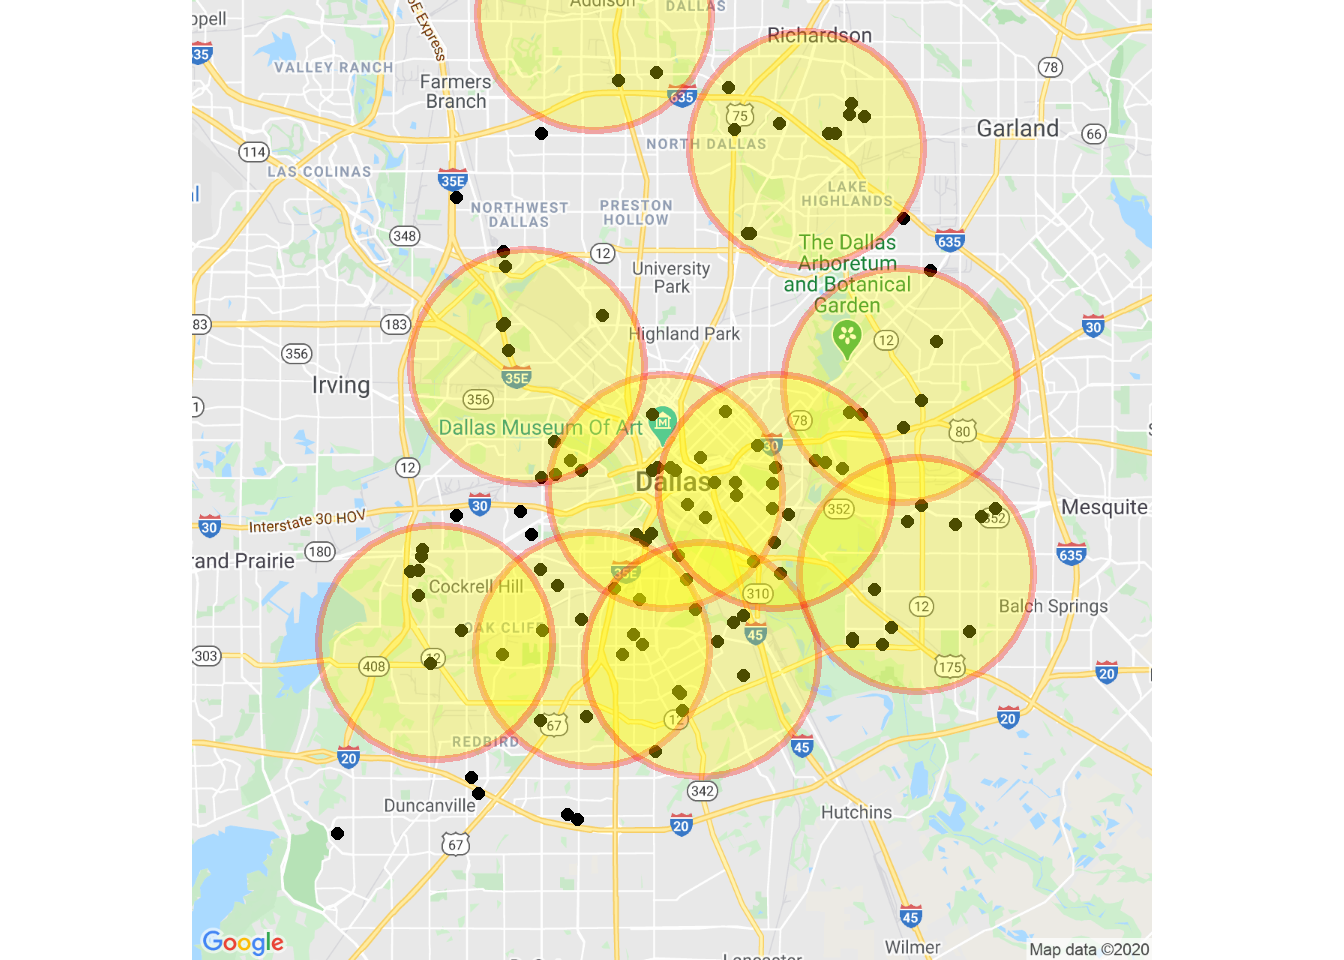
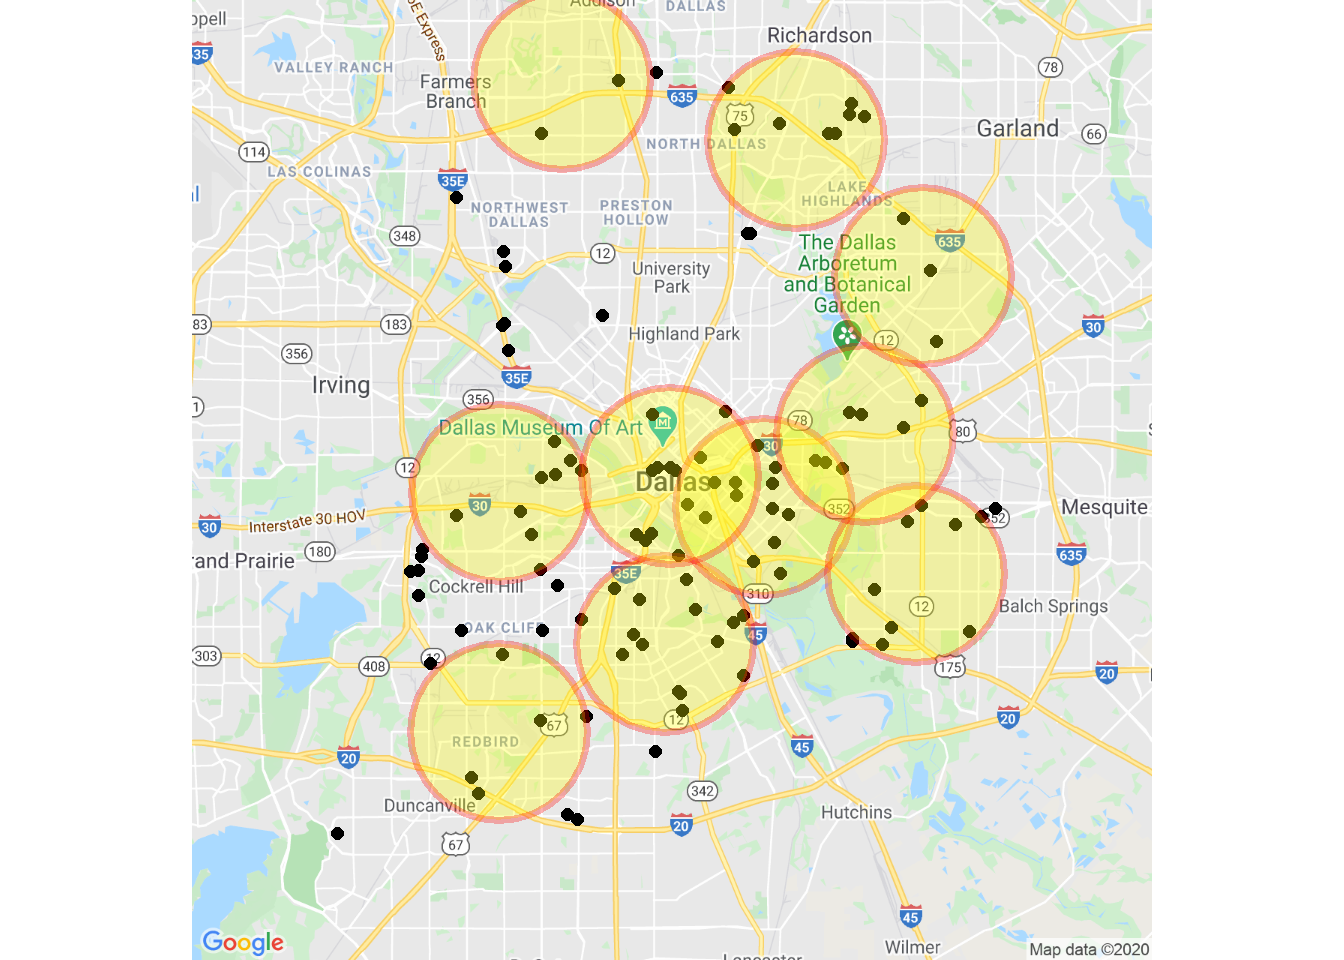
george

Changed region(s): [[0.2188, 0.0, 0.7812, 0.875]]

diff --git a/content/post/2020-12-22-mapping-murders-in-dallas/index.html b/content/post/2020-12-22-mapping-murders-in-dallas/index.html
@@ -15,25 +15,205 @@ tags: []
 <p><img src="index_files/figure-html/Plot%20Using%20the%20Maps-1.png" width="672" /></p>
 <pre><code>## Warning: Removed 3 rows containing missing values (geom_point).</code></pre>
 <p><img src="index_files/figure-html/Plot%20Using%20the%20Maps-2.png" width="672" /></p>
+<p>Cluster analysis</p>
 <pre><code>## Warning: Removed 3 rows containing missing values (geom_point).</code></pre>
 <p><img src="index_files/figure-html/Cluster%20Analysis-1.png" width="672" /></p>
+<pre><code>## Warning: Removed 6 rows containing missing values (geom_point).
+
+## Warning: Removed 6 rows containing missing values (geom_point).
+
+## Warning: Removed 6 rows containing missing values (geom_point).
+
+## Warning: Removed 6 rows containing missing values (geom_point).
+
+## Warning: Removed 6 rows containing missing values (geom_point).
+
+## Warning: Removed 6 rows containing missing values (geom_point).
+
+## Warning: Removed 6 rows containing missing values (geom_point).
+
+## Warning: Removed 6 rows containing missing values (geom_point).
+
+## Warning: Removed 6 rows containing missing values (geom_point).
+
+## Warning: Removed 6 rows containing missing values (geom_point).
+
+## Warning: Removed 6 rows containing missing values (geom_point).
+
+## Warning: Removed 6 rows containing missing values (geom_point).
+
+## Warning: Removed 6 rows containing missing values (geom_point).
+
+## Warning: Removed 6 rows containing missing values (geom_point).
+
+## Warning: Removed 6 rows containing missing values (geom_point).</code></pre>
+<pre><code>## Warning: Removed 10 rows containing missing values (geom_point).
+
+## Warning: Removed 10 rows containing missing values (geom_point).
+
+## Warning: Removed 10 rows containing missing values (geom_point).
+
+## Warning: Removed 10 rows containing missing values (geom_point).
+
+## Warning: Removed 10 rows containing missing values (geom_point).
+
+## Warning: Removed 10 rows containing missing values (geom_point).
+
+## Warning: Removed 10 rows containing missing values (geom_point).
+
+## Warning: Removed 10 rows containing missing values (geom_point).
+
+## Warning: Removed 10 rows containing missing values (geom_point).
+
+## Warning: Removed 10 rows containing missing values (geom_point).
+
+## Warning: Removed 10 rows containing missing values (geom_point).
+
+## Warning: Removed 10 rows containing missing values (geom_point).
+
+## Warning: Removed 10 rows containing missing values (geom_point).
+
+## Warning: Removed 10 rows containing missing values (geom_point).
+
+## Warning: Removed 10 rows containing missing values (geom_point).</code></pre>
+<pre><code>## Warning: Removed 12 rows containing missing values (geom_point).
+
+## Warning: Removed 12 rows containing missing values (geom_point).
+
+## Warning: Removed 12 rows containing missing values (geom_point).
+
+## Warning: Removed 12 rows containing missing values (geom_point).
+
+## Warning: Removed 12 rows containing missing values (geom_point).
+
+## Warning: Removed 12 rows containing missing values (geom_point).
+
+## Warning: Removed 12 rows containing missing values (geom_point).
+
+## Warning: Removed 12 rows containing missing values (geom_point).
+
+## Warning: Removed 12 rows containing missing values (geom_point).
+
+## Warning: Removed 12 rows containing missing values (geom_point).
+
+## Warning: Removed 12 rows containing missing values (geom_point).
+
+## Warning: Removed 12 rows containing missing values (geom_point).
+
+## Warning: Removed 12 rows containing missing values (geom_point).
+
+## Warning: Removed 12 rows containing missing values (geom_point).
+
+## Warning: Removed 12 rows containing missing values (geom_point).</code></pre>
+<pre><code>## Warning: Removed 8 rows containing missing values (geom_point).
+
+## Warning: Removed 8 rows containing missing values (geom_point).
+
+## Warning: Removed 8 rows containing missing values (geom_point).
+
+## Warning: Removed 8 rows containing missing values (geom_point).
+
+## Warning: Removed 8 rows containing missing values (geom_point).
+
+## Warning: Removed 8 rows containing missing values (geom_point).
+
+## Warning: Removed 8 rows containing missing values (geom_point).
+
+## Warning: Removed 8 rows containing missing values (geom_point).
+
+## Warning: Removed 8 rows containing missing values (geom_point).
+
+## Warning: Removed 8 rows containing missing values (geom_point).
+
+## Warning: Removed 8 rows containing missing values (geom_point).
+
+## Warning: Removed 8 rows containing missing values (geom_point).
+
+## Warning: Removed 8 rows containing missing values (geom_point).
+
+## Warning: Removed 8 rows containing missing values (geom_point).</code></pre>
+<pre><code>## Warning: Removed 11 rows containing missing values (geom_point).
+
+## Warning: Removed 11 rows containing missing values (geom_point).
+
+## Warning: Removed 11 rows containing missing values (geom_point).
+
+## Warning: Removed 11 rows containing missing values (geom_point).
+
+## Warning: Removed 11 rows containing missing values (geom_point).
+
+## Warning: Removed 11 rows containing missing values (geom_point).
+
+## Warning: Removed 11 rows containing missing values (geom_point).
+
+## Warning: Removed 11 rows containing missing values (geom_point).
+
+## Warning: Removed 11 rows containing missing values (geom_point).
+
+## Warning: Removed 11 rows containing missing values (geom_point).
+
+## Warning: Removed 11 rows containing missing values (geom_point).
+
+## Warning: Removed 11 rows containing missing values (geom_point).
+
+## Warning: Removed 11 rows containing missing values (geom_point).
+
+## Warning: Removed 11 rows containing missing values (geom_point).</code></pre>
+<pre><code>## Warning: Removed 6 rows containing missing values (geom_point).
+
+## Warning: Removed 6 rows containing missing values (geom_point).
+
+## Warning: Removed 6 rows containing missing values (geom_point).
+
+## Warning: Removed 6 rows containing missing values (geom_point).
+
+## Warning: Removed 6 rows containing missing values (geom_point).
+
+## Warning: Removed 6 rows containing missing values (geom_point).
+
+## Warning: Removed 6 rows containing missing values (geom_point).
+
+## Warning: Removed 6 rows containing missing values (geom_point).
+
+## Warning: Removed 6 rows containing missing values (geom_point).
+
+## Warning: Removed 6 rows containing missing values (geom_point).
+
+## Warning: Removed 6 rows containing missing values (geom_point).
+
+## Warning: Removed 6 rows containing missing values (geom_point).
+
+## Warning: Removed 6 rows containing missing values (geom_point).
+
+## Warning: Removed 6 rows containing missing values (geom_point).</code></pre>
+<pre><code>## Warning: Removed 4 rows containing missing values (geom_point).
+
+## Warning: Removed 4 rows containing missing values (geom_point).
+
+## Warning: Removed 4 rows containing missing values (geom_point).
+
+## Warning: Removed 4 rows containing missing values (geom_point).
+
+## Warning: Removed 4 rows containing missing values (geom_point).
+
+## Warning: Removed 4 rows containing missing values (geom_point).
+
+## Warning: Removed 4 rows containing missing values (geom_point).
+
+## Warning: Removed 4 rows containing missing values (geom_point).
+
+## Warning: Removed 4 rows containing missing values (geom_point).
+
+## Warning: Removed 4 rows containing missing values (geom_point).
+
+## Warning: Removed 4 rows containing missing values (geom_point).
+
+## Warning: Removed 4 rows containing missing values (geom_point).
+
+## Warning: Removed 4 rows containing missing values (geom_point).
+
+## Warning: Removed 4 rows containing missing values (geom_point).</code></pre>
 <p><img src="index_files/figure-html/Plot%20the%20anmination-1.gif" /><!-- --></p>
-<pre><code>## 
-## To cite ggmap in publications, please use:
-## 
-##   D. Kahle and H. Wickham. ggmap: Spatial Visualization with ggplot2.
-##   The R Journal, 5(1), 144-161. URL
-##   http://journal.r-project.org/archive/2013-1/kahle-wickham.pdf
-## 
-## A BibTeX entry for LaTeX users is
-## 
-##   @Article{,
-##     author = {David Kahle and Hadley Wickham},
-##     title = {ggmap: Spatial Visualization with ggplot2},
-##     journal = {The R Journal},
-##     year = {2013},
-##     volume = {5},
-##     number = {1},
-##     pages = {144--161},
-##     url = {https://journal.r-project.org/archive/2013-1/kahle-wickham.pdf},
-##   }</code></pre>
+<p>ggmap citation:
+D. Kahle and H. Wickham. ggmap: Spatial Visualization with ggplot2. The R Journal, 5(1), 144-161.
+URL <a href="http://journal.r-project.org/archive/2013-1/kahle-wickham.pdf" class="uri">http://journal.r-project.org/archive/2013-1/kahle-wickham.pdf</a></p>
